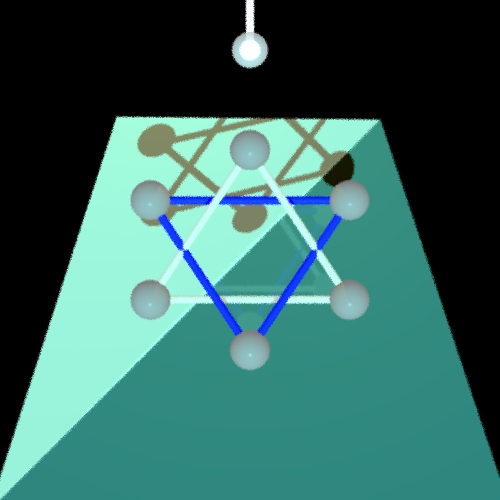
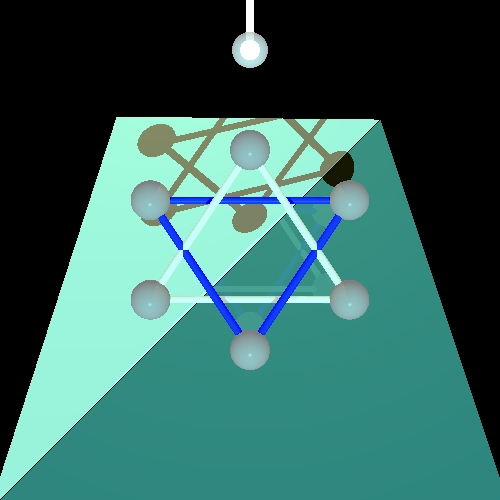
dof

diff --git a/src/unittests/DepthOfFiledTest.java b/src/unittests/DepthOfFiledTest.java
@@ -1,34 +1,24 @@
 package unittests;
-import org.junit.Test;
 
-import elements.AmbientLight;
-import elements.Camera;
-import elements.DirectionalLight;
-import elements.PointLight;
-import geometries.Cylinder;
-import geometries.Plane;
-import geometries.Sphere;
-import geometries.Triangle;
-import primitives.Color;
-import primitives.Material;
-import primitives.Point3D;
-import primitives.Ray;
-import primitives.Vector;
-import renderer.ImageWriter;
-import renderer.Render;
+import org.junit.Test;
+import elements.*;
+import geometries.*;
+import primitives.*;
+import renderer.*;
 import scene.Scene;
+
 /**
+ * Unit tests for Depth of filed attribute.
  * 
- * @author USER
+ * @author E&Y
  *
  */
 public class DepthOfFiledTest {
 
-	
 	@Test
-	public void ourImage() {
+	public void DofTest1() {
 		Scene scene = new Scene("DOF");
-		scene.setCamera(new Camera(new Point3D(-1000, 0,0), new Vector(1, 0, 0), new Vector(0, 0, 1),600,5,300));
+		scene.setCamera(new Camera(new Point3D(-1000, 0, 0), new Vector(1, 0, 0), new Vector(0, 0, 1), 600, 5, 100));
 		scene.setDistance(400);
 		scene.setBackground(Color.BLACK);
 		scene.setAmbientLight(new AmbientLight(new Color(132, 124, 65), 0));
@@ -41,28 +31,50 @@ public class DepthOfFiledTest {
 				new Sphere(new Point3D(200, -150, 0), 30, new Color(127, 127, 127), new Material(0.4, 0.3, 100, 0, 0)),
 				new Sphere(new Point3D(300, -300, 0), 30, new Color(127, 127, 127), new Material(0.4, 0.3, 100, 0, 0)),
 				new Sphere(new Point3D(1000, -350, 0), 30, new Color(127, 127, 127), new Material(0.4, 0.3, 100, 0, 0)),
-				new Sphere(new Point3D(500, -400, 0), 30, new Color(127, 127, 127), new Material(0.4, 0.3, 100, 0, 0))
-			//	new Plane(new Point3D(0,0,-20), new Vector(0,0,1),new Color(java.awt.Color.yellow), new Material(0.4, 0.3, 100, 0, 0))
-				);
+				new Sphere(new Point3D(500, -400, 0), 30, new Color(127, 127, 127), new Material(0.4, 0.3, 100, 0, 0)));
 
 		scene.addLights(new DirectionalLight(new Color(48, 170, 176), new Vector(0, -1, 2)),
 				new PointLight(new Color(103, 110, 13), new Point3D(0, -100, 0), 1, 0, 0));
 
 		ImageWriter imageWriter = new ImageWriter("DepthOfFiled", 250, 250, 500, 500);
 		Render render = new Render(imageWriter, scene);
-	
 
 		render.renderImage();
 		render.writeToImage();
 	}
-	
-	
-	
-	
-	
-	
-	
-	
-	
-	
+
+	@Test
+	public void DofTest2() {
+		Scene scene = new Scene("DOF");
+		scene.setCamera(new Camera(new Point3D(-1000, 0, 0), new Vector(1, 0, 0), new Vector(0, 0, 1), 600, 5, 100));
+		scene.setDistance(400);
+		scene.setBackground(Color.BLACK);
+		scene.setAmbientLight(new AmbientLight(new Color(132, 124, 65), 0));
+
+		scene.addGeometries(
+				new Sphere(new Point3D(-550, 50, 0), 30, new Color(127, 127, 127), new Material(0.4, 0.3, 100, 0, 0)),
+				new Sphere(new Point3D(-200, -50, 0), 30, new Color(127, 127, 127), new Material(0.4, 0.3, 100, 0, 0)),
+				new Sphere(new Point3D(-150, -90, 0), 30, new Color(127, 127, 127), new Material(0.4, 0.3, 100, 0, 0)),
+				new Sphere(new Point3D(0, 0, 0), 30, new Color(127, 127, 127), new Material(0.4, 0.3, 100, 0, 0)),
+				new Sphere(new Point3D(200, -150, 0), 30, new Color(127, 127, 127), new Material(0.4, 0.3, 100, 0, 0)),
+				new Sphere(new Point3D(300, -300, 0), 30, new Color(127, 127, 127), new Material(0.4, 0.3, 100, 0, 0)),
+				new Sphere(new Point3D(1000, -350, 0), 30, new Color(127, 127, 127), new Material(0.4, 0.3, 100, 0, 0)),
+				new Sphere(new Point3D(500, -400, 0), 30, new Color(127, 127, 127), new Material(0.4, 0.3, 100, 0, 0)),
+				new Sphere(new Point3D(-600, 80, 0), 30, new Color(127, 127, 127), new Material(0.4, 0.3, 100, 0, 0)),
+				new Sphere(new Point3D(2500, -400, -400), 100, new Color(127, 127, 127),
+						new Material(0.4, 0.3, 100, 0, 0)),
+				new Sphere(new Point3D(0, -50, -100), 30, new Color(127, 127, 127), new Material(0.4, 0.3, 100, 0, 0))
+		// new Plane(new Point3D(0,0,-20), new Vector(0,0,1),new
+		// Color(java.awt.Color.yellow), new Material(0.4, 0.3, 100, 0, 0))
+		);
+
+		scene.addLights(new DirectionalLight(new Color(48, 170, 176), new Vector(0, -1, 2)),
+				new PointLight(new Color(103, 110, 13), new Point3D(0, -100, 0), 1, 0, 0));
+
+		ImageWriter imageWriter = new ImageWriter("DepthOfFiled2", 250, 250, 500, 500);
+		Render render = new Render(imageWriter, scene);
+
+		render.renderImage();
+		render.writeToImage();
+	}
 }

diff --git a/src/unittests/CreateImage.java b/src/unittests/CreateImage.java
@@ -6,7 +6,11 @@ import geometries.*;
 import primitives.*;
 import renderer.*;
 import scene.Scene;
-
+/**
+ * create image with shadow transparency and reflected,we add after Depth of field. 
+ * @author E&Y
+ *
+ */
 public class CreateImage {
 
 	@Test
@@ -37,7 +41,7 @@ public class CreateImage {
 	@Test
 	public void ourImage() {
 		Scene scene = new Scene("createImage");
-		scene.setCamera(new Camera(new Point3D(0, 0, -800), new Vector(0, 0, 1), new Vector(0, -1, 0),10,0.04,30));
+		scene.setCamera(new Camera(new Point3D(0, 0, -1000), new Vector(0, 0, 1), new Vector(0, -1, 0),10,0.55,1));
 		scene.setDistance(1000);
 		scene.setBackground(Color.BLACK);
 		scene.setAmbientLight(new AmbientLight(new Color(132, 124, 65), 0));
@@ -78,8 +82,6 @@ public class CreateImage {
 
 		ImageWriter imageWriter = new ImageWriter("magenDavid_s", 250, 250, 500, 500);
 		Render render = new Render(imageWriter, scene);
-	
-
 		render.renderImage();
 		render.writeToImage();
 	}

diff --git a/src/elements/Camera.java b/src/elements/Camera.java
@@ -60,7 +60,7 @@ public class Camera {
 	public List<Ray> constructbeamOfRaysThroughPixels(int nX, int nY, int j, int i, double screenDistance,
 			double screenWidth, double screenHeight) {
 		List<Ray> result = new LinkedList<Ray>();
-		Point3D pij = getViewPlanePoint(nX, nY, j, i, screenDistance*0.7, screenWidth*0.7, screenHeight*0.7);
+		Point3D pij = getViewPlanePoint(nX, nY, j, i, screenDistance*0.5, screenWidth*0.5, screenHeight*0.5);
 		Vector vToFocal = pij.subtract(p0).normalize();
 		// add to list the ray through pixel i,j from view plane
 		result.add(new Ray(pij, vToFocal));
